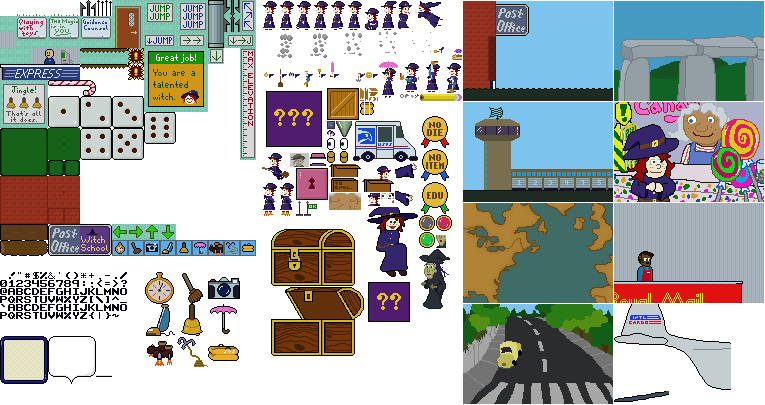
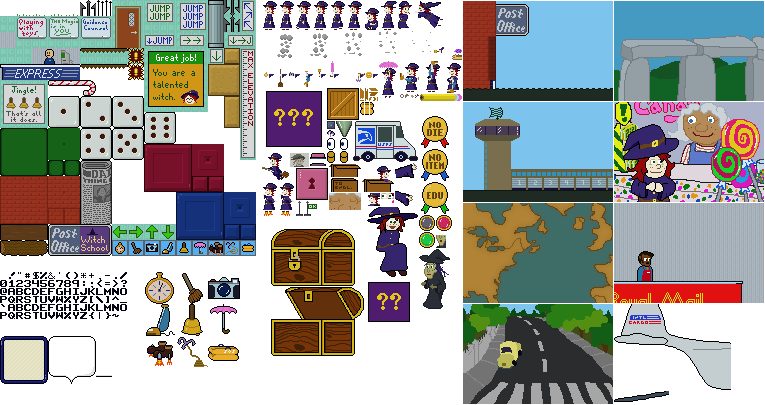
more graphics variety, cosmetic only

Changed region(s): [[0.1804, 0.3556, 0.3608, 0.5926], [0.2706, 0.1185, 0.3307, 0.3259], [0.0902, 0.3852, 0.1503, 0.563]]

diff --git a/src/www/js/game/Grid.js b/src/www/js/game/Grid.js
@@ -137,18 +137,18 @@ Grid.CELLPHYSICS = [
   0,0,0,0,0,3,3,0, 0,0,0,0,0,1,3,0,
   0,0,0,0,0,0,0,0, 0,0,0,0,0,1,3,0,
   0,0,0,0,0,0,0,0, 0,0,0,0,0,1,0,0,
-  0,0,0,0,0,2,2,2, 3,0,0,0,0,0,0,0,
-  2,2,2,2,2,2,2,2, 3,0,0,0,0,0,0,0,
-  0,0,0,2,2,2,0,0, 0,0,0,0,0,0,0,0,
-  0,0,0,1,1,1,1,1, 1,0,0,0,0,0,0,0,
-  0,0,0,1,1,1,1,1, 1,1,1,0,0,0,0,0,
+  0,0,0,0,0,2,2,2, 3,0,0,0,0,0,1,0,
+  2,2,2,2,2,2,2,2, 3,0,0,0,0,1,1,0,
+  0,0,0,2,2,2,0,0, 0,0,0,0,0,1,1,0,
+  0,0,0,1,1,1,1,1, 1,0,0,0,0,0,1,0,
+  0,0,0,1,1,1,1,1, 1,1,1,0,0,0,1,0,
   
   1,1,1,1,1,1,1,1, 1,1,1,0,0,0,0,0,
-  1,1,1,1,1,1,1,1, 1,0,0,0,0,0,0,0,
-  1,1,1,1,1,0,0,0, 0,0,0,0,0,0,0,0,
-  1,1,1,1,1,0,0,0, 0,0,0,0,0,0,0,0,
-  1,1,1,1,1,0,0,0, 0,0,0,0,0,0,0,0,
-  1,1,1,1,1,0,0,0, 0,0,0,0,0,0,0,0,
-  1,1,1,1,1,1,1,0, 0,0,0,0,0,0,0,0,
+  1,1,1,1,1,1,1,1, 1,1,1,1,1,1,0,0,
+  1,1,1,1,1,1,1,0, 0,1,1,1,1,1,0,0,
+  1,1,1,1,1,1,1,0, 0,1,1,1,1,1,0,0,
+  1,1,1,1,1,1,1,0, 0,0,0,1,1,1,1,1,
+  1,1,1,1,1,1,1,0, 0,0,0,1,1,1,1,1,
+  1,1,1,1,1,1,1,0, 0,0,0,1,1,1,1,1,
   1,1,1,1,1,1,1,0, 0,0,0,0,0,0,0,0,
 ];

diff --git a/src/editor/js/map/MapPaintService.js b/src/editor/js/map/MapPaintService.js
@@ -460,7 +460,13 @@ MapPaintService.TILEPROPS = [{
   tileid: 0x80,
   mode: "fat5x3",
 }, {
+  tileid: 0x99,
+  mode: "fat5x3",
+}, {
   tileid: 0xb0,
+  mode: "fat5x3",
+}, {
+  tileid: 0xcb,
   mode: "fat5x3",
 }, {
   tileid: 0xe0,

diff --git a/README.md b/README.md
@@ -9,7 +9,7 @@ https://github.com/aksommerville/too-heavy
 ## TODO
 
 - [ ] Confirm it runs sanely with a high-frequency monitor. Ask Rick.
-- [ ] Enrich graphics.
+- [x] Enrich graphics.
 - [ ] Can I loosen the trigger for long jump while running? I miss it a lot.
 
 ## High Scores
@@ -18,3 +18,4 @@ https://github.com/aksommerville/too-heavy
 |--------|----------|------------|---------|
 | DIE    | 4:31.098 | 2023-12-30 | |
 | DI-    | 2:17.146 | 2023-12-30 | |
+| ---    | 1:51.608 | 2023-12-30 | |
